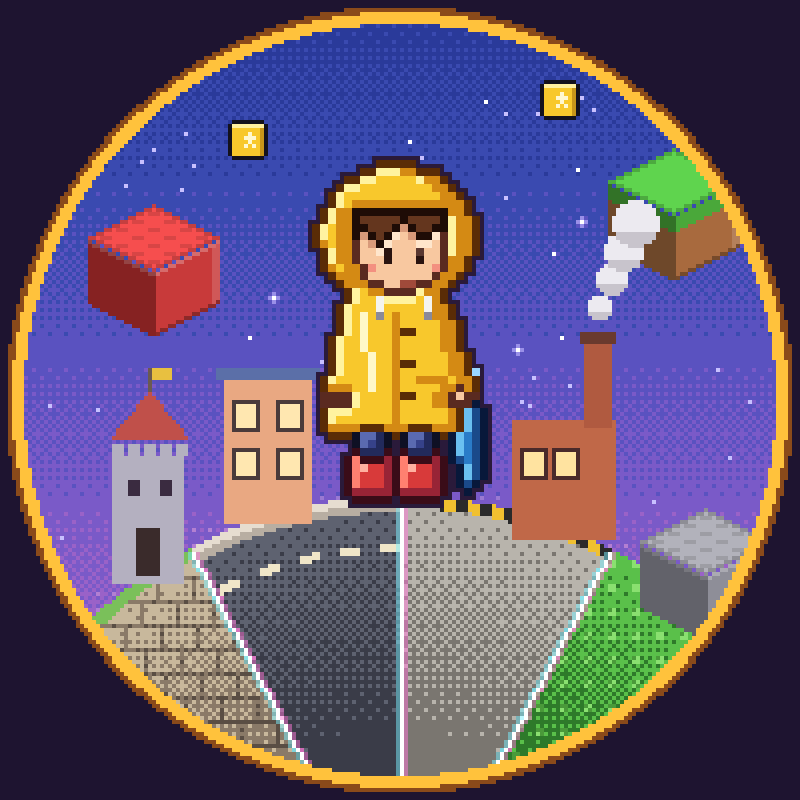
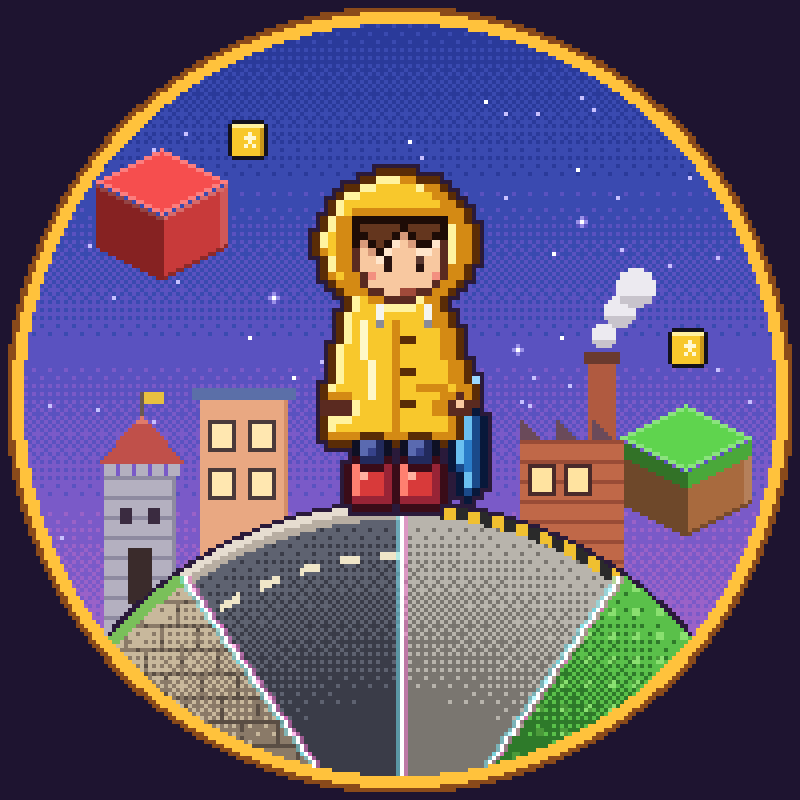
Foto de perfil: prédios plantados na curva do planeta, planeta mais redondo e cubos flutuando longe da fumaça
Claude-Session: https://claude.ai/code/session_01L9V3oF699H6aXTzdijqpv8

diff --git a/projetos/canal/arte/icone.html b/projetos/canal/arte/icone.html
@@ -23,23 +23,43 @@ for (let i = 0; i < 90; i++) {
   if (f > 0.93) for (const [dx, dy] of [[1, 0], [-1, 0], [0, 1], [0, -1]]) p.set(x + dx, y + dy, '#9a90e8');
 }
 // cubos flutuando no espaço
-desenharSprite(T, quadro('peca-vermelha'), 38, 84, 1);
-desenharSprite(T, quadro('cubo-grama'), 168, 70, 1);
+desenharSprite(T, quadro('peca-vermelha'), 40, 70, 1);
+desenharSprite(T, quadro('cubo-grama'), 171, 134, 1);
 desenharSprite(T, quadro('moeda-bloco'), 62, 40, 1);
-desenharSprite(T, quadro('moeda-bloco'), 140, 30, 1);
+desenharSprite(T, quadro('moeda-bloco'), 172, 92, 1);
 
-// planeta
-const PX = 100, PY = 236, PR = 112;
-brilho(PX, PY, PR + 22, '#ffd6f0', 0.45);
-// cada pedaço da superfície é um mundo (pelo ângulo)
+// planeta (menor e mais redondo; o topo fica logo abaixo dos pés da Bia)
+const PX = 100, PY = 222, PR = 96;
+const sup = (x) => Math.round(PY - Math.sqrt(Math.max(0, PR * PR - (x - PX) ** 2))); // altura da superfície em x
 const mundo = (x, y) => {
   const a = Math.atan2(y - PY, x - PX) * 180 / Math.PI; // -180..0 em cima
-  return a < -118 ? 'medieval' : a < -90 ? 'cidade' : a < -62 ? 'fabrica' : 'blocos';
+  return a < -125 ? 'medieval' : a < -90 ? 'cidade' : a < -55 ? 'fabrica' : 'blocos';
 };
+// 1) as construções vêm ANTES do planeta e descem até o fundo: a borda do planeta cobre a base (ficam plantadas na curva)
+const SIL = '#3a2b2b';
+// castelo (esquerda): torre de pedra com telhado vermelho e bandeirinha
+{ const x0 = 26, w = 18, topo = sup(x0 + w / 2) - 32;
+  p.ret(x0, topo, w, 200 - topo, '#b4b0c0'); for (let i = 0; i < w; i += 4) p.ret(x0 + i, topo - 3, 3, 3, '#b4b0c0');
+  for (let y = topo; y < 200; y += 5) p.ret(x0, y, w, 1, '#8e8aa0'); p.ret(x0 + w - 1, topo, 1, 200 - topo, '#8e8aa0');
+  for (let i = 0; i < 12; i++) { const l = Math.round(11 * (i / 12)); p.ret(x0 + 9 - l, topo - 15 + i, 2 * l + 1, 1, i < 2 ? '#e07a6a' : '#c0504a'); }
+  p.ret(x0 + 9, topo - 21, 1, 6, '#6b5a50'); p.ret(x0 + 10, topo - 21, 5, 3, '#e8c040');
+  p.ret(x0 + 4, topo + 8, 3, 4, '#3a2b40'); p.ret(x0 + 11, topo + 8, 3, 4, '#3a2b40'); p.ret(x0 + 6, topo + 18, 6, 14, SIL); }
+// prédio da cidade (perto da Bia, à esquerda)
+{ const x0 = 50, w = 22, topo = sup(x0 + w / 2) - 34;
+  p.ret(x0, topo, w, 200 - topo, '#e9a882'); p.ret(x0 - 2, topo - 3, w + 4, 3, '#5b6fa8'); p.ret(x0 + w - 1, topo, 1, 200 - topo, '#d48d66');
+  for (const [dx, dy] of [[3, 6], [13, 6], [3, 18], [13, 18]]) { p.ret(x0 + dx - 1, topo + dy - 1, 7, 8, '#4a3a3a'); p.ret(x0 + dx, topo + dy, 5, 6, '#ffe7b0'); } }
+// fábrica com chaminé e fumaça (direita)
+{ const x0 = 130, w = 26, topo = sup(x0 + w / 2) - 26;
+  p.ret(x0 + 17, topo - 20, 7, 30, '#b05a40'); p.ret(x0 + 16, topo - 22, 9, 3, '#6a3a2e');
+  for (let i = 0; i < 3; i++) p.circulo(x0 + 21 + i * 4, topo - 26 - i * 6, 3 + i, (x, y, dx, dy) => (dy > 0.3 ? '#c8c4cc' : '#eceaf0'));
+  p.ret(x0, topo, w, 200 - topo, '#c06848'); for (let y = topo; y < 200; y += 5) p.ret(x0, y, w, 1, '#9a4c36');
+  for (let i = 0; i < 3; i++) for (let k = 0; k < 5; k++) p.ret(x0 + i * 9 + k, topo - 5 + k, 1, 5 - k, '#6a4a5a'); // telhado em dente
+  for (const dx of [3, 12]) { p.ret(x0 + dx - 1, topo + 6, 7, 8, '#4a2a2a'); p.ret(x0 + dx, topo + 7, 5, 6, '#ffe3a0'); } }
+// 2) o planeta por cima: cada fatia é o chão de um mundo
+brilho(PX, PY, PR + 18, '#ffd6f0', 0.35);
 p.circulo(PX, PY, PR, (x, y) => {
   const d = Math.hypot(x + 0.5 - PX, y + 0.5 - PY), borda = PR - d, m = mundo(x, y);
-  const fundo = Math.min(1, borda / 60); // mais escuro para dentro do planeta
-  const tom = (cores) => Pix.tom(cores, fundo, x, y);
+  const tom = (cores) => Pix.tom(cores, Math.min(1, borda / 50), x, y);
   if (m === 'medieval') {
     if (borda < 3) return '#7ac05a';
     const lin = Math.floor(y / 6), col = (x + lin * 4) % 9;
@@ -53,31 +73,15 @@ p.circulo(PX, PY, PR, (x, y) => {
   const px = ((x % 6) + 6) % 6, py = ((y % 6) + 6) % 6; // pinos do jogo de blocos
   return px >= 2 && px <= 3 && py >= 2 && py <= 3 ? tom(['#8ae070', '#4a9a3a']) : tom(['#5ac04a', '#2e7a2a']);
 });
-for (const ang of [-118, -90, -62]) {
+for (const ang of [-125, -90, -55]) { // fendas brilhantes entre os mundos (como no banner)
   const r = ang * Math.PI / 180;
   for (let k = 0; k < PR; k++) {
     const x = Math.round(PX + Math.cos(r) * k), y = Math.round(PY + Math.sin(r) * k);
     p.set(x, y, '#ffffff'); p.set(x + 1, y, misturar(T.get(x + 1, y), '#ff7ad9', 0.5)); p.set(x - 1, y, misturar(T.get(x - 1, y), '#7af0ff', 0.5));
   }
 }
-const sup = (x) => Math.round(PY - Math.sqrt(PR * PR - (x - PX) ** 2)); // altura da superfície em x
-// castelo (esquerda)
-const t1 = sup(36);
-p.ret(28, t1 - 30, 18, 32, '#b4b0c0'); for (let i = 0; i < 18; i += 4) p.ret(28 + i, t1 - 33, 3, 3, '#b4b0c0');
-for (let i = 0; i < 12; i++) { const l = Math.round(10 * (i / 12)); p.ret(37 - l, t1 - 46 + i, 2 * l + 1, 1, '#c0504a'); }
-p.ret(37, t1 - 52, 1, 6, '#6b5a50'); p.ret(38, t1 - 52, 5, 3, '#e8c040');
-p.ret(34, t1 - 12, 6, 12, '#3a2b2b'); p.ret(32, t1 - 24, 3, 4, '#3a2b40'); p.ret(40, t1 - 24, 3, 4, '#3a2b40');
-// prédio da cidade (perto da Bia, à esquerda)
-const t2 = sup(66);
-p.ret(56, t2 - 34, 22, 36, '#e9a882'); p.ret(54, t2 - 37, 26, 3, '#5b6fa8');
-for (const [x, y] of [[59, 28], [70, 28], [59, 16], [70, 16]]) { p.ret(x - 1, t2 - y - 1, 7, 8, '#4a3a3a'); p.ret(x, t2 - y, 5, 6, '#ffe7b0'); }
-// fábrica com chaminé (direita)
-const t3 = sup(140);
-p.ret(128, t3 - 26, 26, 30, '#c06848'); p.ret(146, t3 - 46, 7, 22, '#b05a40'); p.ret(145, t3 - 48, 9, 3, '#6a3a2e');
-for (let i = 0; i < 4; i++) p.circulo(150 + i * 3, t3 - 54 - i * 7, 3 + i, (x, y, dx, dy) => (dy > 0.3 ? '#c8c4cc' : '#eceaf0'));
-for (const x of [131, 139]) { p.ret(x - 1, t3 - 19, 7, 8, '#4a2a2a'); p.ret(x, t3 - 18, 5, 6, '#ffe3a0'); }
-// cubos empilhados (direita, mais baixo)
-desenharSprite(T, quadro('cubo-pedra'), 176, sup(176) + 6, 1);
+// contorno escuro da borda do planeta (separa do céu)
+for (let y = 0; y < 200; y++) for (let x = 0; x < 200; x++) { const d = Math.hypot(x + 0.5 - PX, y + 0.5 - PY); if (d > PR && d <= PR + 1) p.set(x, y, '#2a1a3a'); }
 
 // a Bia em pé no topo do planeta
 const bia = quadro('menina-capa', 'parado');

diff --git a/projetos/canal/CANAL.md b/projetos/canal/CANAL.md
@@ -29,8 +29,9 @@ Personagens e mundos originais, feitos em pixel art.
   princesa), cidade (a Bia e o gatinho), fábrica de brinquedos (soldadinho e boneca) e jogo de blocos (dois avatares). Todas as
   sombras vão para a direita e só a da Bia vai para a esquerda, a ideia do vídeo das sombras.
   O título "PIXELVERSO" e o slogan ficam dentro da área segura do YouTube (1546×423 no centro), que aparece em todos os aparelhos.
-- `foto-perfil.png`: 800×800. A Bia em pé num planetinha dividido nos quatro mundos (pedras e castelo, rua e prédio, fábrica com
-  chaminé, chão de blocos), com as mesmas fendas brilhantes, num céu roxo de estrelas com cubos e moedas. Aro dourado no limite do círculo.
+- `foto-perfil.png`: 800×800. A Bia em pé no topo de um planetinha redondo dividido nos quatro mundos (pedras, rua, fábrica e chão de
+  blocos), separados pelas fendas brilhantes do banner. A torre do castelo, o prédio e a fábrica ficam plantados na curva do planeta (a borda
+  cobre a base deles); o cubo vermelho e o de grama flutuam no céu roxo de estrelas, com moedas. Aro dourado no limite do círculo.
 - Código: `arte/banner.html`, `arte/icone.html` e `arte/comum.js` (sprites do motor, sombras, títulos).
 - As artes antigas ("Histórias em Pixel" e a versão "Vila Serena") ficam no histórico do git.
 
